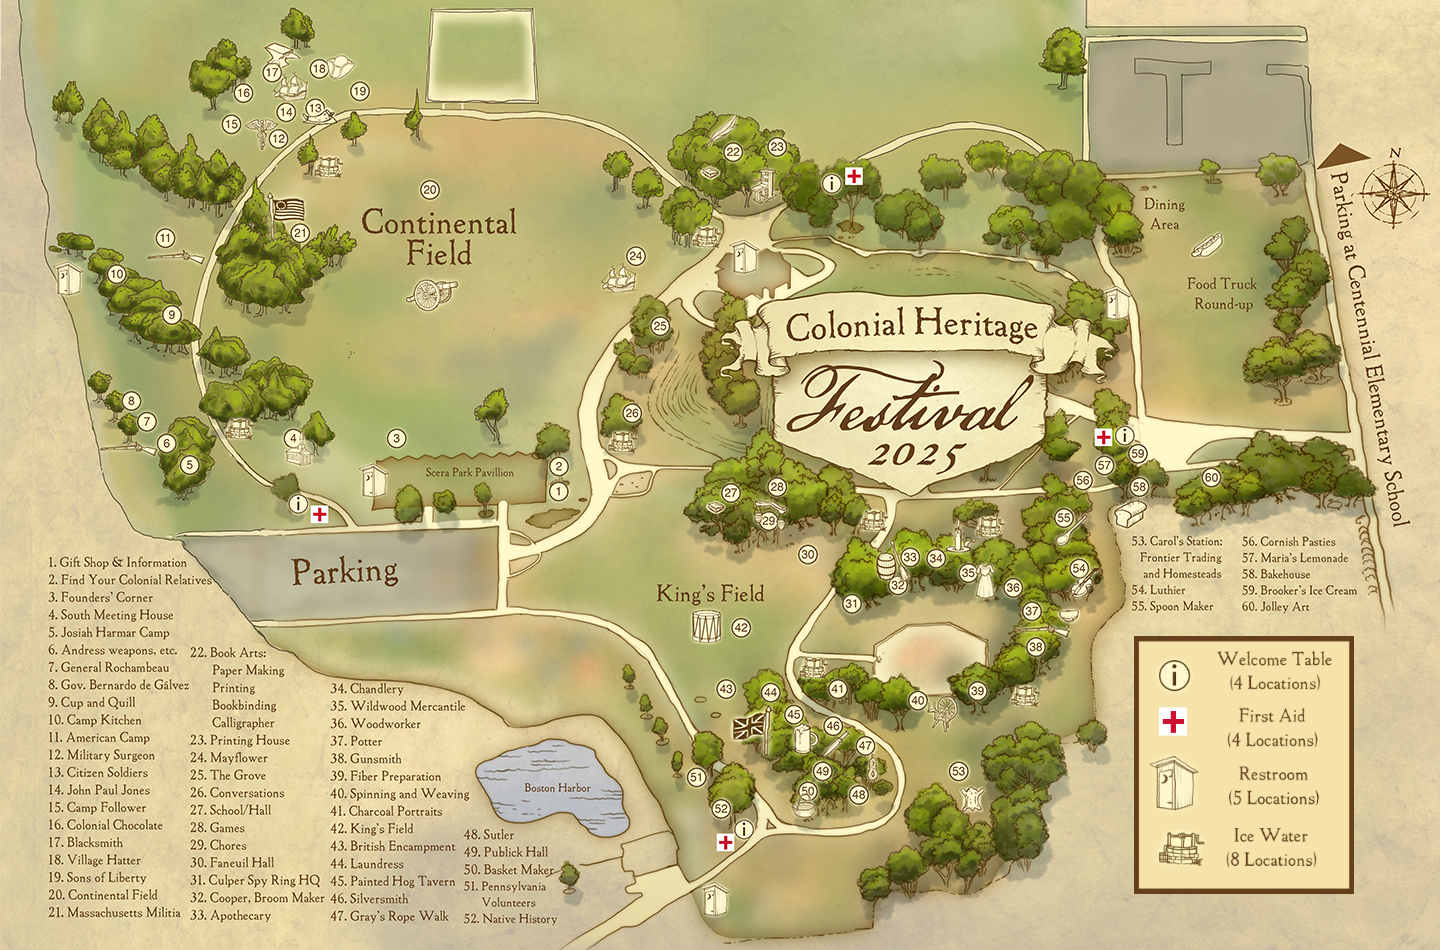
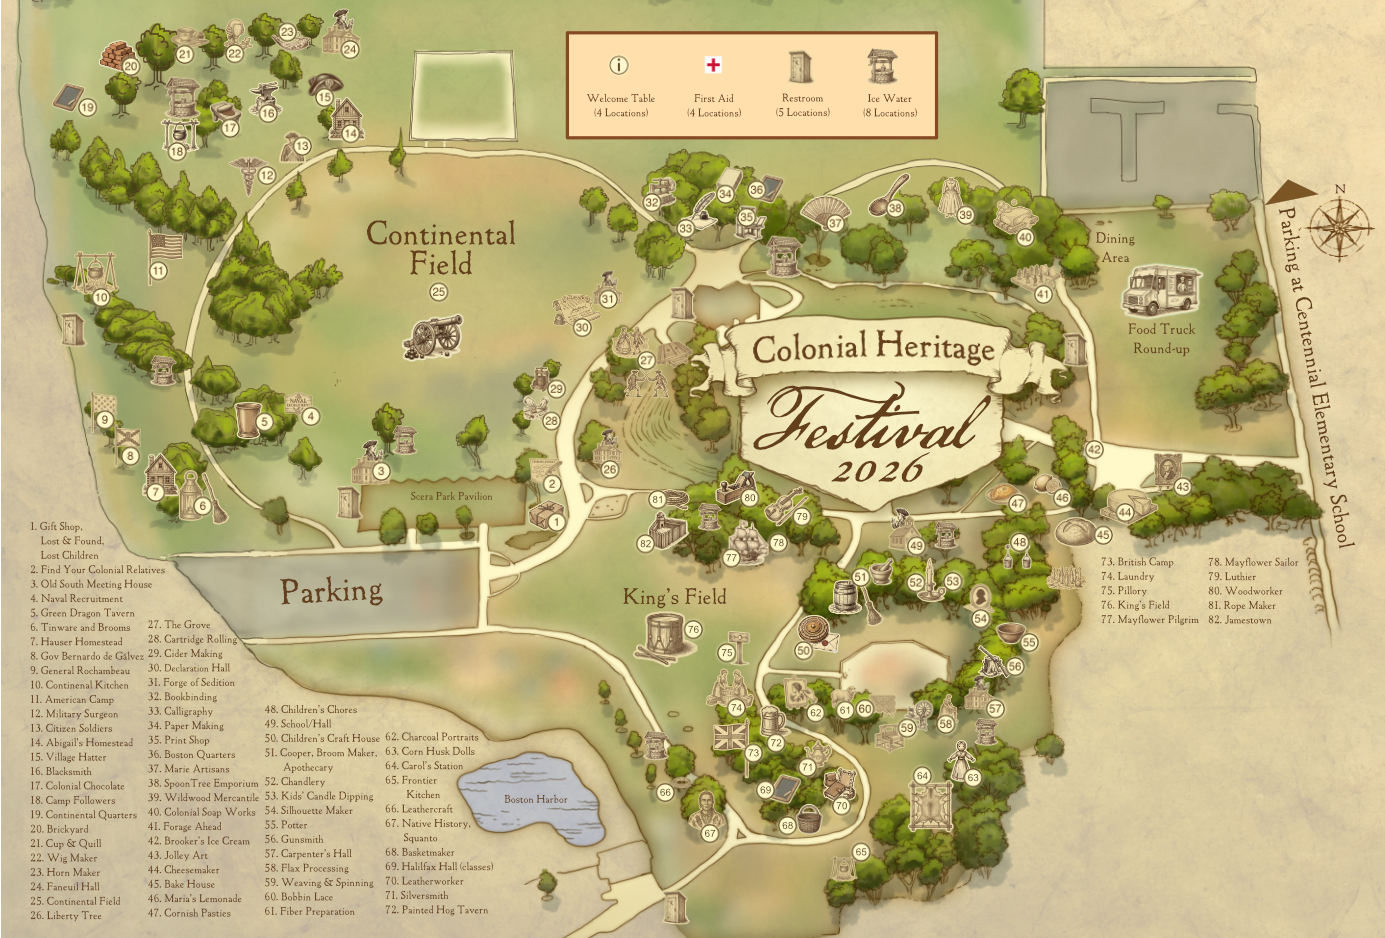
publish

diff --git a/index.html b/index.html
@@ -10,68 +10,89 @@
     <link href="https://fonts.googleapis.com/css2?family=Pinyon+Script&display=swap" rel="stylesheet"></head>
     <script>
 function make_map(){
-
-add_area('46,551,192,565','480','557','Gift Shop & Information')
-add_area('46,568,213,584','455','556','Find Your Colonial Relatives')
-add_area('48,586,160,602','428','395','Founders’ Corner')
-add_area('47,604,175,618','428','292','South Meeting House')
-add_area('46,620,172,637','454','188','Josiah Harmar Camp')
-add_area('47,638,181,656','433','167','Andress weapons, etc.')
-add_area('45,655,174,672','410','146','General Rochambeau')
-add_area('47,671,193,689','390','132','Gov. Bernardo de Gálvez')
-add_area('46,691,140,705','303','170','Cup and Quill')
-add_area('46,708,146,725','264','116','Camp Kitchen')
-add_area('45,725,153,743','227','164','American Camp')
-add_area('46,744,156,759','128','278','Military Surgeon')
-add_area('46,760,151,778','98','314','Citizen Soldiers')
-add_area('47,779,163,795','101','285','John Paul Jones')
-add_area('47,795,152,811','112','232','Camp Follower')
-add_area('45,814,167,829','82','241','Colonial Chocolate')
-add_area('46,831,131,847','61','271','Blacksmith')
-add_area('45,849,146,864','59','318','Village Hatter')
-add_area('45,866,152,882','82','359','Sons of Liberty')
-add_area('46,883,167,900','178','429','Continental Field')
-add_area('45,900,182,916','221','299','Massachusetts Militia')
-add_area('187,643,295,727','141','731','Book Arts')
-add_area('185,727,296,746','136','776','Printing House')
-add_area('188,746,281,763','246','635','Mayflower')
-add_area('187,763,276,779','315','659','The Grove')
-add_area('187,781,287,797','401','631','Conversations')
-add_area('187,798,281,814','482','729','School/Hall')
-add_area('187,816,252,833','474','775','Games')
-add_area('188,834,252,849','511','768','Chores')
-add_area('186,852,283,866','542','807','Faneuil Hall')
-add_area('187,869,325,887','591','851','Culper Spy Ring HQ')
-add_area('189,886,325,905','575','896','Cooper, Broom Maker')
-add_area('189,903,320,922','545','909','Apothecary')
-add_area('326,674,420,694','547','935','Chandlery')
-add_area('328,693,465,638','560','969','Wildwood Mercantile')
-add_area('324,712,442,659','577','1014','Woodworker')
-add_area('329,732,388,747','601','1031','Potter')
-add_area('327,749,410,763','636','1035','Gunsmith')
-add_area('327,766,447,784','682','978','Fiber Preparation')
-add_area('328,782,471,800','690','917','Spinning and Weaving')
-add_area('325,801,453,817','678','837','Charcoal Portraits')
-add_area('327,818,421,834','618','741','King\'s Field')
-add_area('330,836,458,852','678','726','British Encampment')
-add_area('327,852,416,871','681','770','Laundress')
-add_area('327,869,457,885','703','795','Painted Hog Tavern')
-add_area('327,888,415,905','715','832','Silversmith')
-add_area('324,905,452,926','735','865','Gray\'s Rope Walk')
-add_area('458,821,518,841','784','857','Sutler')
-add_area('461,842,553,859','760','822','Publick Hall')
-add_area('460,858,557,876','780','808','Basket Maker')
-add_area('461,875,552,908','767','698','Pennsylvania Volunteers')
-add_area('458,909,592,923','799','723','Native American Lore')
-add_area('1123,530,1229,578','761','957','Carol\'s Station: Frontier Trading and Homesteads')
-add_area('1128,580,1192,596','558','1077','Luthier')
-add_area('1127,596,1218,613','507','1063','Spoon Maker')
-add_area('1238,529,1346,548','470','1081','Cornish Pasties')
-add_area('1240,547,1355,562','454','1102','Maria’s Lemonade')
-add_area('1241,564,1317,580','474','1138','Bakehouse')
-add_area('1240,580,1361,596','443','1137','Brooker’s Ice Cream')
-add_area('1238,596,1323,617','467','1211','Jolley Art')
-
+add_area('1205,362,1287,379','288','646','Jamestown')
+add_area('30,518,99,555','512','553','Gift Shop, Lost & Found, Lost Children')
+add_area('30,561,166,575','473','552','Find Your Colonial Relatives')
+add_area('29,577,152,587','460','380','Old South Meeting House')
+add_area('31,588,127,602','407','309','Naval Recruitment')
+add_area('31,606,137,621','412','263','Green Dragon Tavern')
+add_area('37,619,134,630','497','202','Tinware & Brooms')
+add_area('29,379,140,391','229','156','Hauser Homestead')
+add_area('36,393,147,408','194','133','Gov. Gálvez')
+add_area('27,408,147,421','157','107','Gen. Rochambeau')
+add_area('29,424,138,436','35','102','Continental Kitchen')
+add_area('29,440,124,450','9','158','American Camp')
+add_area('29,704,130,717','165','269','Military Surgeon')
+add_area('30,554,138,569','136','304','America\'s First Armed Forces')
+add_area('30,731,138,744','124','349','Abigail\'s Homestead')
+add_area('30,749,115,761','89','322','Village Hatter')
+add_area('28,761,135,777','104','268','Blacksmith')
+add_area('29,775,134,789','119','229','Colonial Chocolate')
+add_area('28,793,122,803','140','177','Camp Followers')
+add_area('28,806,140,818','98','88','Continental Quarters')
+add_area('30,821,105,833','56','132','Brickyard')
+add_area('29,835,111,845','45','184','Cup & Quill')
+add_area('27,848,102,863','44','234','Wig Maker')
+add_area('28,865,106,877','22','286','Horn Maker')
+add_area('26,878,109,888','39','347','Faneuil Hall')
+add_area('26,893,129,904','282','437','Continental Field')
+add_area('27,906,113,920','459','611','Liberty Tree')
+add_area('145,618,212,628','351','646','The Grove')
+add_area('148,630,237,641','411','551','Cartridge Rolling')
+add_area('145,646,224,657','378','555','Cider Making')
+add_area('146,658,230,671','319','582','Declaration Hall')
+add_area('146,673,237,686','289','609','Forge of Sedition')
+add_area('146,689,221,699','192','652','Bookbinding')
+add_area('147,702,216,715','219','685','Calligraphy')
+add_area('145,718,227,731','184','725','Paper Making ')
+add_area('146,731,215,746','208','746','Print Shop')
+add_area('147,746,239,757','181','756','Boston Quarters')
+add_area('149,759,241,775','214','835','Marie Artisans')
+add_area('146,774,261,788','198','896','SpoonTree Emporium ')
+add_area('144,789,261,802','206','966','Wildwood Mercantile')
+add_area('143,803,257,818','228','1026','Colonial Soap Works')
+add_area('147,818,238,831','285','1043','Forage Ahead')
+add_area('147,830,253,845','440','1094','Brooker\'s Ice Cream')
+add_area('142,844,214,859','476','1181','Jolley Art')
+add_area('144,861,226,875','502','1124','Cheesemaker')
+add_area('144,875,222,888','526','1101','Bake House')
+add_area('140,890,247,902','488','1060','Maria\'s Lemonade')
+add_area('144,902,237,921','494','1014','Cornish Pasties')
+add_area('260,694,364,711','534','1021','Children\'s Chores')
+add_area('264,714,337,726','534','915','School/Hall')
+add_area('262,729,381,741','642','801','Children\'s Craft House')
+add_area('263,747,374,774','568','859','Cooper, Broom Maker, Apothecary')
+add_area('261,773,337,786','574','916','Chandlery')
+add_area('260,787,374,802','572','952','Children\'s Candle Dipping')
+add_area('261,801,357,816','608','981','Silhouette Maker')
+add_area('263,816,309,829','633','1028','Potter')
+add_area('261,829,326,841','657','1015','Gunsmith')
+add_area('263,847,359,856','699','993','Carpenter\'s Hall')
+add_area('264,858,358,874','715','945','Flax Processing')
+add_area('264,873,375,887','718','904','Weaving & Spinning')
+add_area('261,887,337,900','698','864','Bobbin Lace')
+add_area('262,902,355,916','700','843','Fiber Preparation')
+add_area('381,727,480,742','702','814','Charcoal Portraits ')
+add_area('383,743,477,754','769','975','Corn Husk Dolls')
+add_area('382,756,462,770','764','921','Carol\'s Station')
+add_area('381,523,450,551','596','861','Frontier Kitchen')
+console.log("leather craft")
+add_area('381,551,458,564','535','665','Leathercraft')
+add_area('382,567,470,593','576','709','Native History, Squanto')
+add_area('382,596,462,609','568','787','Basketmaker')
+add_area('381,609,496,623','534','764','Halilfax Hall (classes)')
+add_area('381,623,470,639','549','841','Leatherworker')
+add_area('378,639,456,652','510','806','Silversmith')
+add_area('382,654,492,668','486','774','Painted Hog Tavern')
+add_area('1098,306,1174,317','496','752','British Camp')
+add_area('1098,317,1164,334','451','734','Laundry')
+add_area('1098,334,1160,349','395','728','Pillory')
+add_area('1172,361,692,371','305','1204','King\'s Field')
+add_area('1097,365,1203,375','300','730','Mayflower Pilgrim')
+add_area('1205,307,1303,320','286','777','Coppin')
+add_area('1204,321,1260,334','258','802','Luthier')
+add_area('1207,334,1286,347','243','750','Woodworker')
+add_area('1207,349,1284,364','242','657','Rope Maker')
 
 
 add_rect('1135,643,1352,705',place_welcome)
@@ -103,7 +124,7 @@ function place_tents(){
     <div id="schedule">
         <div id="heading" style="position:relative">
             
-            <div class="parent" id="map-div" style="display:none">
+            <div class="parent" id="map-div" style="display:block">
                 <img class="image1" src="current_map.png" usemap="#image-map"/>
                 <map name="image-map" id="image-map"/>
                 <div id="message" onclick="hideMessage()">

diff --git a/pindropper.html b/pindropper.html
@@ -21,7 +21,10 @@
                 mode=mode+1
             }else if(mode===2){
                 text+=evt.clientY + "','" + evt.clientX + "','"   
-                const title = prompt("title")
+                let title = getLabel()
+                if(!title){
+                  title=prompt("title")
+                }
                 text+=title + "')"
                 document.getElementById("data").innerHTML = document.getElementById("data").innerHTML +"\n"+text
                 navigator.clipboard.writeText(text)
@@ -41,11 +44,20 @@
                 navigator.clipboard.writeText( document.getElementById("coords").innerHTML );
             }
         }
+        function getLabel(){
+            const ta = document.getElementById("labels");
+            data=ta.value.split("\n")
+            const val=data.shift()
+            
+            ta.value=data.join("\n")
+            return val
+        }
     </script>
 </head>
 <body style="margin:0" onkeyup="copyCoords(event)">
     <img id="i" src="current_map.png" onclick="click_me(event)" onmousemove="showCoords(event)">
     <div id="coords"></div>
-    <pre id="data"><pre>
+    <textArea id="labels" rows="20" cols="50"></textArea>    
+    <pre id="data"></pre>
 </body>
 </html>

diff --git a/makeDeclarationPost.html b/makeDeclarationPost.html
@@ -1,0 +1,23 @@
+<!DOCTYPE html>
+<html lang="en">
+<head>
+    <meta charset="UTF-8">
+    <meta name="viewport" content="width=device-width, initial-scale=1.0">
+    <title>Document</title>
+</head>
+<body>
+<script>
+
+  async function startMeUp(){
+    const res = await fetch('https://declaration250.blogspot.com/feeds/posts/default?alt=json&max-results=0');
+    const data = await res.json();
+    const categories = data.feed.category || [];
+    const highest = Math.max(...categories.map(c => Number(c.term)).filter(n => !isNaN(n)));
+    console.log(highest);
+  }
+
+
+
+</script>
+</body>
+</html>

diff --git a/code.js b/code.js
@@ -91,6 +91,7 @@ function add_rect(coords,func,show_pointer=true){
 }
 
 function add_area(coords,y,x,name,supplement_coords){
+    console.log("adding area",coords,y,x,name,supplement_coords)
     const area_number=Object.keys(map_locations).length+1
     let element = document.createElement("AREA")
     element.shape = "rect"
@@ -173,6 +174,7 @@ function filterSchedule(filter){
 
 }
 function start_me_up(){
+
     make_map()
 
     let params = new URLSearchParams(document.location.search);

diff --git a/system.js b/system.js
@@ -320,7 +320,6 @@ async function start_me_up(){
 
 
 
-    return
         // start of original code===================================
 
     make_map()

diff --git a/style.css b/style.css
@@ -53,7 +53,7 @@ area{
 } 
 
 #schedule{
-    width: 1438px;
+    width: 1385px;
 }
 
 h1{
